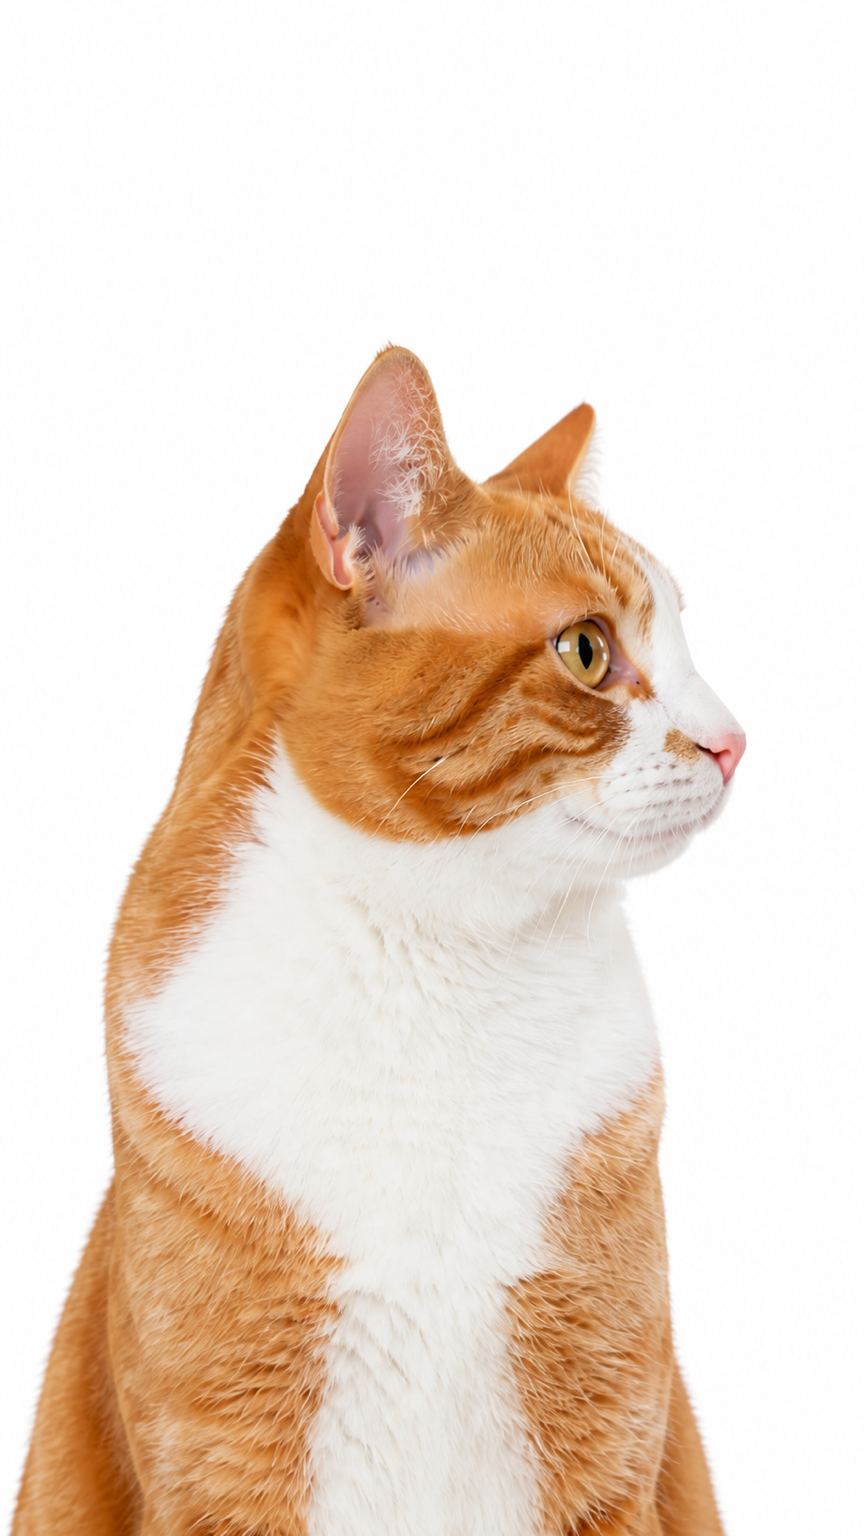
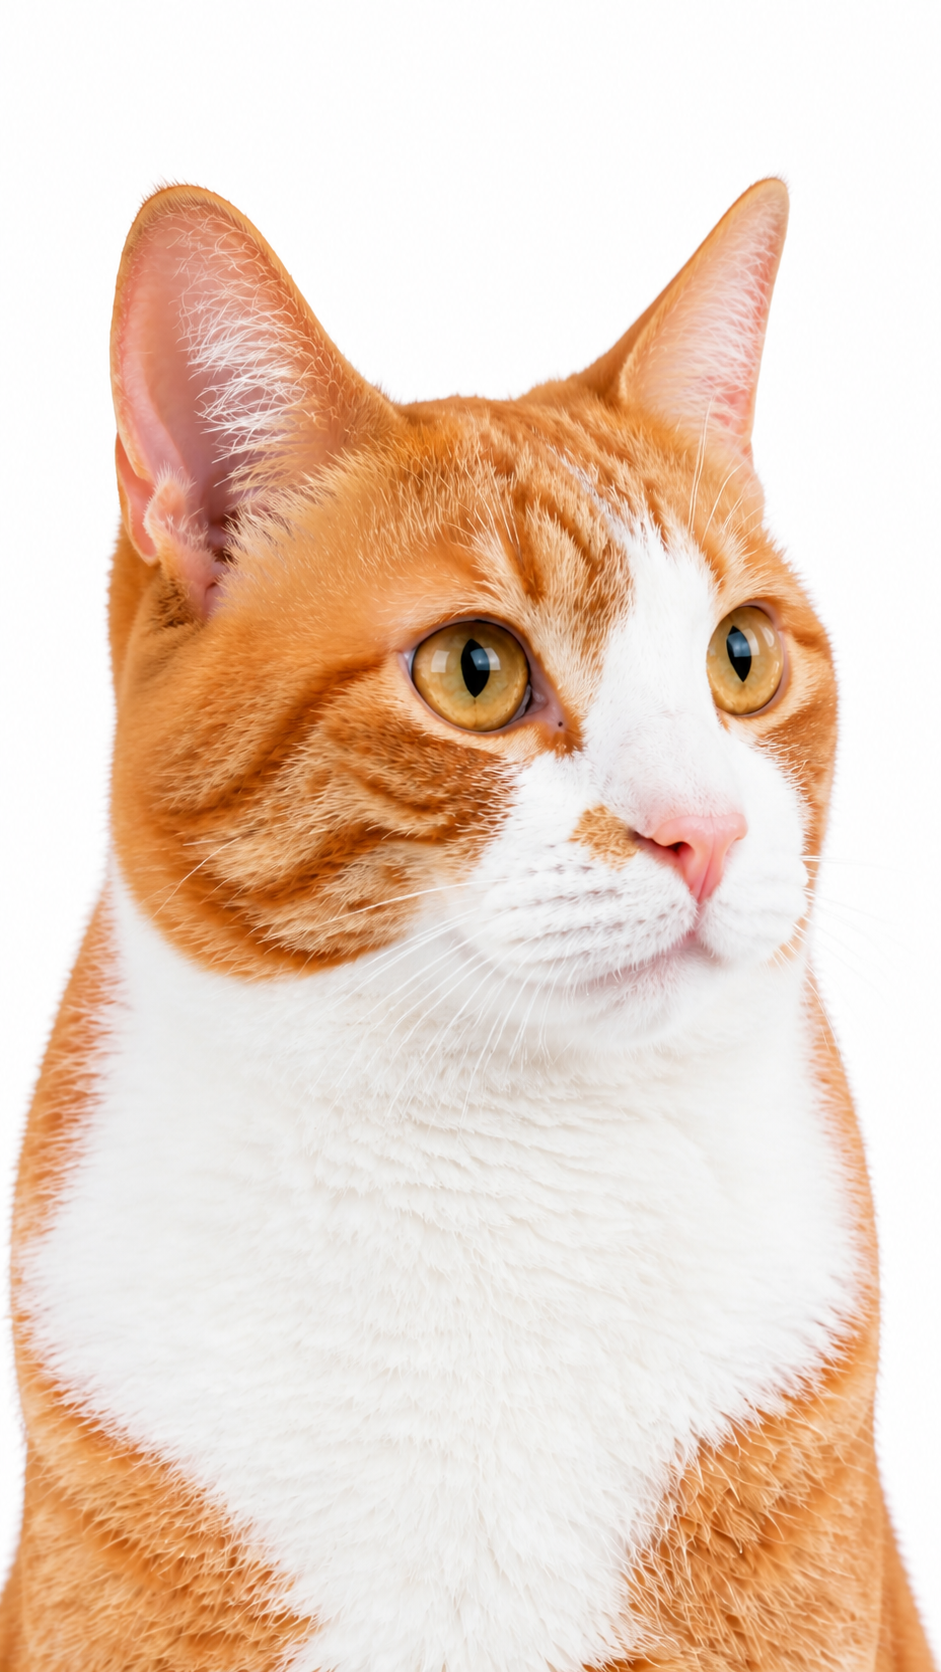
feat(cat-cursor): add LTX upper gaze arc

diff --git a/pages/cat-cursor/script.js b/pages/cat-cursor/script.js
@@ -1,71 +1,32 @@
-const CIRCLE_FRAME_COUNT = 96;
-const ASSET_VERSION = '20260828-5';
+const UPPER_ARC_FRAME_COUNT = 49;
+const ASSET_VERSION = '20260828-6';
 
-const circlePointers = Array.from({ length: CIRCLE_FRAME_COUNT }, (_, index) => {
-  const angle = -(index / CIRCLE_FRAME_COUNT) * Math.PI * 2;
+const centerPointer = {
+  id: 'CENTER',
+  group: 'center',
+  index: 0,
+  total: 1,
+  x: 0,
+  y: 0,
+  src: `./assets/cat-center.webp?v=${ASSET_VERSION}`,
+};
+
+const upperArcPointers = Array.from({ length: UPPER_ARC_FRAME_COUNT }, (_, index) => {
+  const progress = index / (UPPER_ARC_FRAME_COUNT - 1);
+  const angle = -progress * Math.PI;
 
   return {
-    id: `C${String(index + 1).padStart(2, '0')}`,
-    group: 'circle',
+    id: `U${String(index + 1).padStart(2, '0')}`,
+    group: 'upper',
     index,
-    total: CIRCLE_FRAME_COUNT,
+    total: UPPER_ARC_FRAME_COUNT,
     x: Math.cos(angle),
     y: Math.sin(angle),
-    src: `./assets/cat-frames/frame-${String(index + 1).padStart(3, '0')}.webp?v=${ASSET_VERSION}`,
+    src: `./assets/cat-upper-frames/frame-${String(index + 1).padStart(3, '0')}.webp?v=${ASSET_VERSION}`,
   };
 });
 
-const generatedPointers = [
-  { id: 'CENTER', x: 0, y: 0, file: 'center.webp' },
-  ...Array.from({ length: 23 }, (_, index) => {
-    const step = index + 1;
-
-    return {
-      id: `R${String(step).padStart(2, '0')}`,
-      x: step / 24,
-      y: 0,
-      file: `right-${String(step).padStart(2, '0')}.webp`,
-    };
-  }),
-  ...Array.from({ length: 23 }, (_, index) => {
-    const step = index + 1;
-
-    return {
-      id: `L${String(step).padStart(2, '0')}`,
-      x: -step / 24,
-      y: 0,
-      file: `left-${String(step).padStart(2, '0')}.webp`,
-    };
-  }),
-  ...Array.from({ length: 15 }, (_, index) => {
-    const step = index + 1;
-
-    return {
-      id: `U${String(step).padStart(2, '0')}`,
-      x: 0,
-      y: -step / 16,
-      file: `up-${String(step).padStart(2, '0')}.webp`,
-    };
-  }),
-  ...Array.from({ length: 15 }, (_, index) => {
-    const step = index + 1;
-
-    return {
-      id: `D${String(step).padStart(2, '0')}`,
-      x: 0,
-      y: step / 16,
-      file: `down-${String(step).padStart(2, '0')}.webp`,
-    };
-  }),
-].map((pointer, index, pointers) => ({
-  ...pointer,
-  group: 'generated',
-  index,
-  total: pointers.length,
-  src: `./assets/cat-generated-cross/${pointer.file}?v=${ASSET_VERSION}`,
-}));
-
-const imagePointers = [...circlePointers, ...generatedPointers];
+const imagePointers = [centerPointer, ...upperArcPointers];
 const stage = document.getElementById('cat-stage');
 const cat = document.getElementById('cat-frame');
 const instruction = document.getElementById('instruction');
@@ -79,7 +40,7 @@ const decodedImages = new Map();
 
 let ready = false;
 let hasInteracted = false;
-let activePointer = generatedPointers[0];
+let activePointer = centerPointer;
 let debugEnabled = new URLSearchParams(window.location.search).has('debug');
 let pointerDirty = false;
 let targetPoint = { x: 0, y: 0 };
@@ -130,7 +91,7 @@ function updateFrame(pointer) {
 
   activePointer = pointer;
   cat.src = pointer.src;
-  sequenceName.textContent = pointer.group === 'circle' ? 'C' : 'P';
+  sequenceName.textContent = pointer.group === 'upper' ? 'U' : 'P';
   frameNumber.textContent = pointer.id;
   frameTotal.textContent = String(pointer.total);
 

diff --git a/pages/cat-cursor/index.html b/pages/cat-cursor/index.html
@@ -5,7 +5,7 @@
   <meta name="viewport" content="width=device-width, initial-scale=1.0, maximum-scale=1.0, user-scalable=no">
   <meta name="theme-color" content="#ffffff">
   <title>Cat Cursor</title>
-  <link rel="stylesheet" href="style.css?v=20260828-5">
+  <link rel="stylesheet" href="style.css?v=20260828-6">
 </head>
 <body>
   <main id="cat-stage" class="cat-stage" aria-label="커서를 따라 시선을 움직이는 고양이">
@@ -33,10 +33,10 @@
       <span id="sequence-name">X</span>
       <span id="frame-number">CENTER</span>
       <span>/</span>
-      <span id="frame-total">77</span>
+      <span id="frame-total">1</span>
     </div>
   </main>
 
-  <script type="module" src="script.js?v=20260828-5"></script>
+  <script type="module" src="script.js?v=20260828-6"></script>
 </body>
 </html>

diff --git a/pages/cat-cursor/style.css b/pages/cat-cursor/style.css
@@ -94,7 +94,7 @@ body {
   transform: translate(-50%, -50%);
 }
 
-.image-pointer--generated {
+.image-pointer--center {
   width: 9px;
   height: 9px;
   border-color: #ff3b30;

diff --git a/pages/cat-cursor/spec.md b/pages/cat-cursor/spec.md
@@ -2,23 +2,22 @@
 
 ## Interaction
 
-- GPT Image provides only the initial cat identity reference. Every visible pose is selected from Seedance-generated video frames.
-- The 96-frame circle combines a Seedance 2.5 right-to-top-to-left clip with a Seedance 2.0 first/last-frame left-to-bottom-to-right clip.
-- Seventy-seven keyframes fill the cross: one center, twenty-three intermediates on each horizontal arm, and fifteen intermediates on each vertical arm.
-- The horizontal path comes from one Seedance left-to-center-to-right clip. The center is extracted from that clip, while the four cardinal endpoints are owned by the circle so joins use one shared image.
-- The upward path uses the clean centered portion of a Seedance center-to-top clip. The downward path reuses the clean descent from the lower semicircle after three neutral center-adjacent points; the failed direct upward-moving take is not used.
-- All runtime frames are independently encoded at 405 × 720, preserving the generated 9:16 composition while reducing decode memory on tablets.
-- Each of the 173 source images owns a normalized pointer position: 96 around the circle and 77 along the central cross.
+- GPT Image provides the center and screen-right identity references. The screen-left endpoint is a deterministic horizontal mirror of the right reference so scale, crop, and lighting remain identical.
+- The current test contains one center image and a 49-frame upper arc generated with LTX 2.5 First/Last Frame.
+- The upper arc follows screen coordinates `RIGHT → TOP → LEFT`. The lower arc has intentionally not been generated yet.
+- The LTX source contains 97 native frames. Runtime uses every second source frame, including both endpoints, without optical-flow interpolation, blending, or synthesized in-between frames.
+- All runtime images are independently encoded at 405 × 720, preserving the generated 9:16 composition while reducing decode memory on tablets.
+- Each of the 50 visible images owns a normalized pointer position: one at the center and 49 along the upper semicircle.
 - Pointer coordinates are normalized from the cat's face to the four edges of the stage. The image whose pointer has the smallest two-dimensional distance from the cursor is displayed.
 - Debug mode displays every image pointer and highlights the active one. Use the on-screen `Points` button, press `D`, or append `?debug=1` to the URL to enable it.
 - Debug pointer screen positions are recalculated from normalized coordinates when the viewport changes size.
 - There is no runtime interpolation or blending, and only one photographic frame is visible at a time.
 - Runtime images are decoded before interaction, retained in memory, and changed at most once per animation frame.
-- Cardinal mapping is frame 1 right, frame 25 up, frame 49 left, and frame 73 down.
+- Upper-arc cardinal mapping is frame 1 right, frame 25 up, and frame 49 left.
 - Pointer movement drives the desktop interaction; pointer dragging provides the same behavior on touch devices.
 
 ## Loading
 
-- All 173 frames preload and decode before interaction begins.
+- All 50 images preload and decode before interaction begins.
 - The poster remains hidden behind the loading state until the sequence is ready.
 - The page then swaps predecoded frame URLs without seeking a video element.
